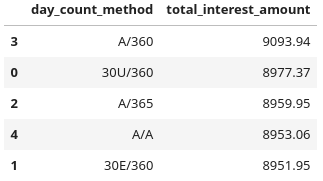
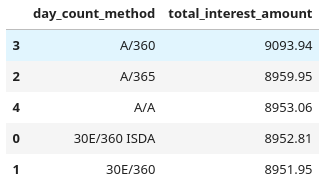
Adjusted documentation to reflect changes in the day count methods

diff --git a/docs/docsrc/source/quickstart.rst b/docs/docsrc/source/quickstart.rst
@@ -32,7 +32,7 @@ In addition, the loan has the following **optional argument**:
 * ``payment_end_of_month``: boolean argument that defines whether loan/mortgage repayments fall on month-end or not. Default value is True. If set to False, and ``first_payment_date`` is None then loan/mortgage payments will fall on the day specified in the ``start_date``.
 * ``annual_payments``: the number of annual payments on the loan/mortgage. The argument can be set to either 12 (monthly), 4 (quarterly), 2 (semi-annual), and 1 (annual). The default value is 12 (monthly).
 * ``interest_only_period``: the number of interest-only payments on the loan/mortgage. The default value is 0.
-* ``compounding_method``: the compounding method used to accrue interest on the loan/mortgage. The default value is '30E/360'. For more details on other alternatives, see :ref:`Section on interest rate compounding`.
+* ``compounding_method``: the compounding method used to accrue interest on the loan/mortgage. The default value is '30E/360 ISDA (a.k.a. 30E/360 German)'. For more details on other alternatives, see :ref:`Section on interest rate compounding`.
 * ``loan_type``: type of loan/mortgage. Default value is annuity. Alternative values are: linear and interest-only.
 
 Get payment schedule
@@ -185,20 +185,20 @@ The above outputs a dataclass with the following fields:
 
 Interest rate compounding
 =========================
-By default PyLoan is compounding interest rates based on the 30/360 day count method, specifically the so-called 30E/360 method. To change the method use the ``compounding_method`` attribute when defining a loan, which accepts the following day count conventions:
+By default PyLoan is compounding interest rates based on the 30/360 day count method, specifically the so-called 30E/360 ISDA method. To change the method use the ``compounding_method`` attribute when defining a loan, which accepts the following day count conventions:
 
-* 30U/360
-* 30E/360
-* A/365
-* A/360
-* A/A
+* 30E/360 ISDA (a.k.a. 30/360 German): every single month is assumed to have 30 days, including February, A year is considered to have 360 days. 
+* 30E/360: every single month, except February, is assumed to have 30 days. February is not adjusted and is counted with its actual nubmer of days (28 or 29). A year is considered to have 360 days.
+* A/360: every single month is counted with its actual number of days. A year is considered to be 360 days.
+* A/365: every single month is counted with its actual number of days. A year is considered to be 365 days.
+* A/A: every single month is counted with its actual number of days. A year is counted with its actual number of days.
 
 .. tip::
    Certain day count conventions are more advantageous to the borrower while other day count conventions are more advantageous to the lender. Use the method ``get_loan_summary`` to compare which day count method is the least expensive and which is the most expensive in terms of total interest amount paid over the lifetime of a mortgage/loan.
 
    Following the examples above, the code block below compares total interest amount paid on a 10-year mortgage/loan of 160,000 EUR with annual interest of 1.1% starting on the 15th of June 2020::
 
-    day_count_conventions=['30U/360','30E/360','A/365','A/360','A/A']
+    day_count_conventions=['30E/360 ISDA','30E/360','A/365','A/360','A/A']
     loan_summary=list(map(lambda x:[x,Loan(loan_amount=160000,interest_rate=1.1,loan_term=10,start_date='2020-06-15',compounding_method=x).get_loan_summary().total_interest_amount],day_count_conventions))
 
    Results can be summarized in the familiar pandas DataFrame::
